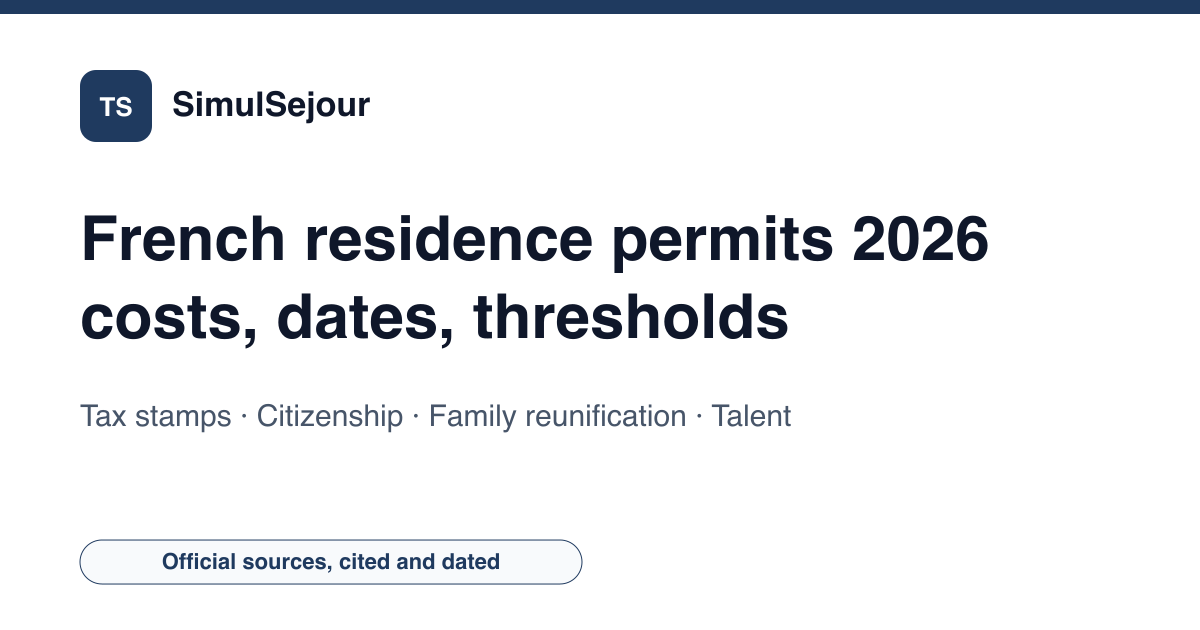
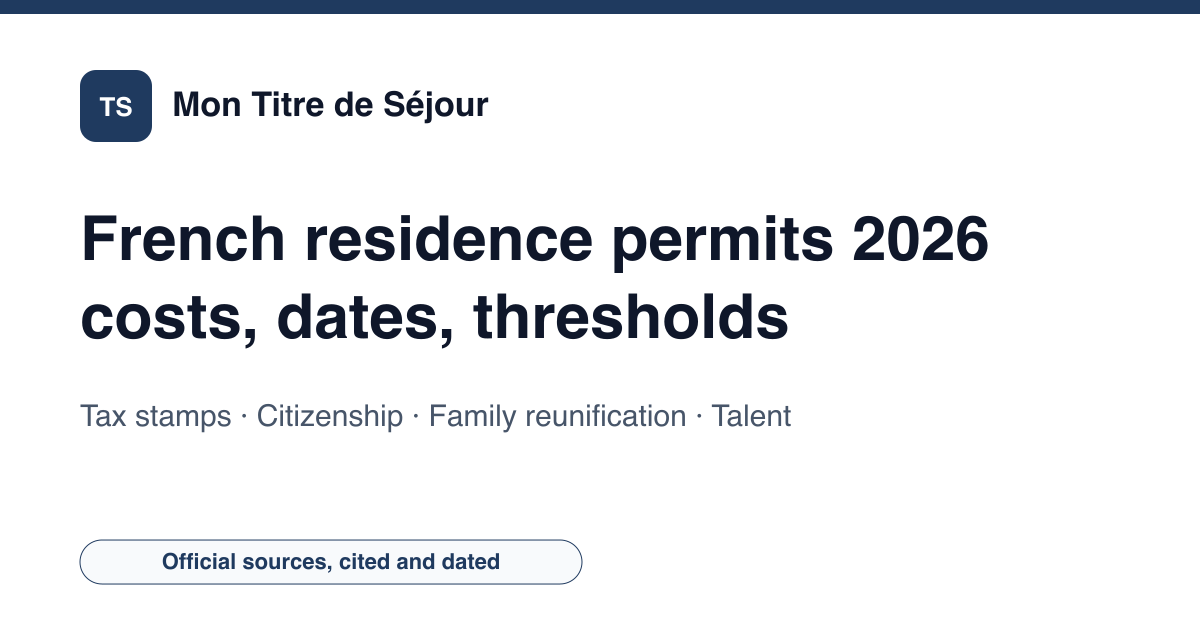
Mise en ligne : domaine mon-titre-de-sejour.fr, marque Mon Titre de Séjour (remplace SimulSéjour), workflow Pages, CNAME ; titres des pages de service recalés ; contrôles à 0

Changed region(s): [[0.1233, 0.1206, 0.4008, 0.2111]]

diff --git a/src/data/site-config.ts b/src/data/site-config.ts
@@ -1,6 +1,6 @@
 /** Configuration centrale du site (générée par new-site.py). */
-export const SITE_URL = "https://fr-sejour.example";
-export const SITE_NAMES: Record<string, string> = {"fr": "SimulSéjour", "en": "SimulSejour"};
+export const SITE_URL = "https://mon-titre-de-sejour.fr";
+export const SITE_NAMES: Record<string, string> = {"fr": "Mon Titre de Séjour", "en": "Mon Titre de Séjour"};
 export const LANG_TAGS: Record<string, string> = {"fr": "fr-FR", "en": "en-FR"};
 export const OG_LOCALES: Record<string, string> = {"fr": "fr_FR", "en": "en_GB"};
 export const LOCALE_TAG = 'fr-FR';
@@ -18,7 +18,7 @@ export const AUTHOR_DESC: Record<string, string> = {"fr": "Radif Partners transf
  *  themes reellement traites par le site, pas une liste de mots-cles : un sujet
  *  declare ici sans page qui le couvre est une declaration fausse. */
 export const KNOWS_ABOUT: Record<string, string[]> = {"fr": ["Titres de séjour (CESEDA)", "Timbres fiscaux des étrangers", "Naturalisation française", "Regroupement familial", "Passeport talent et carte bleue européenne"], "en": ["French residence permits (CESEDA)", "Residence permit stamp duties", "French naturalisation", "Family reunification in France", "Talent passport and EU Blue Card"]};
-export const CONTACT_EMAIL = "contact@fr-sejour.example";
+export const CONTACT_EMAIL = "contact@mon-titre-de-sejour.fr";
 export const THEME_COLOR = '#1F3A5F';
 export const LOGO_SYMBOL = 'TS';
 export const BING_VERIFY_CODE = '';
